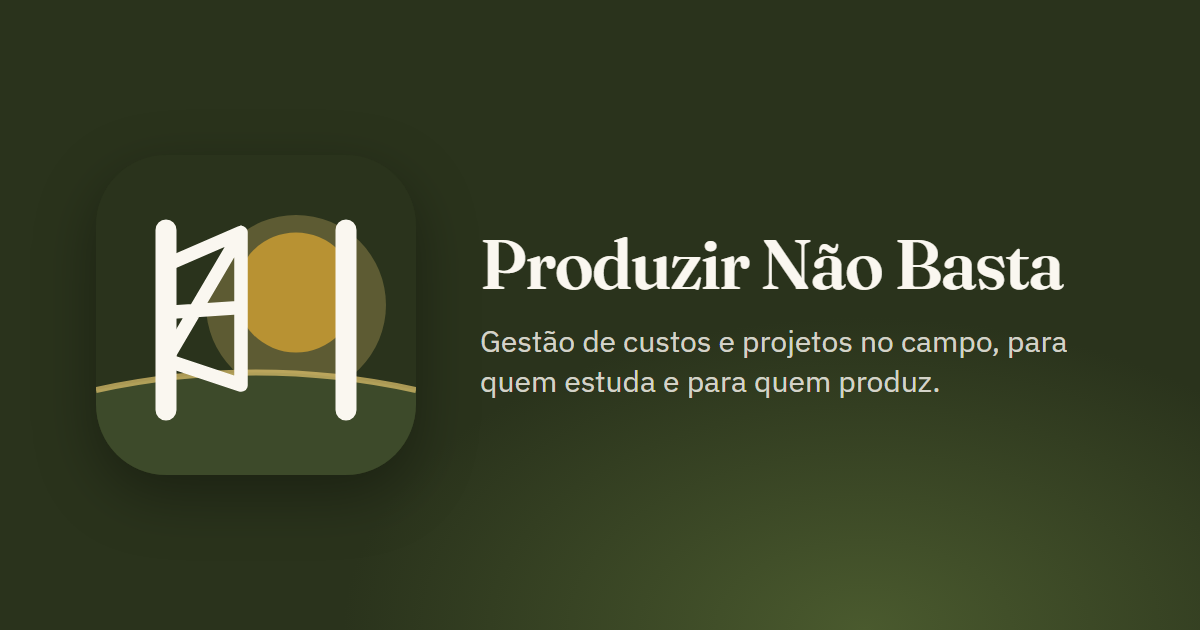
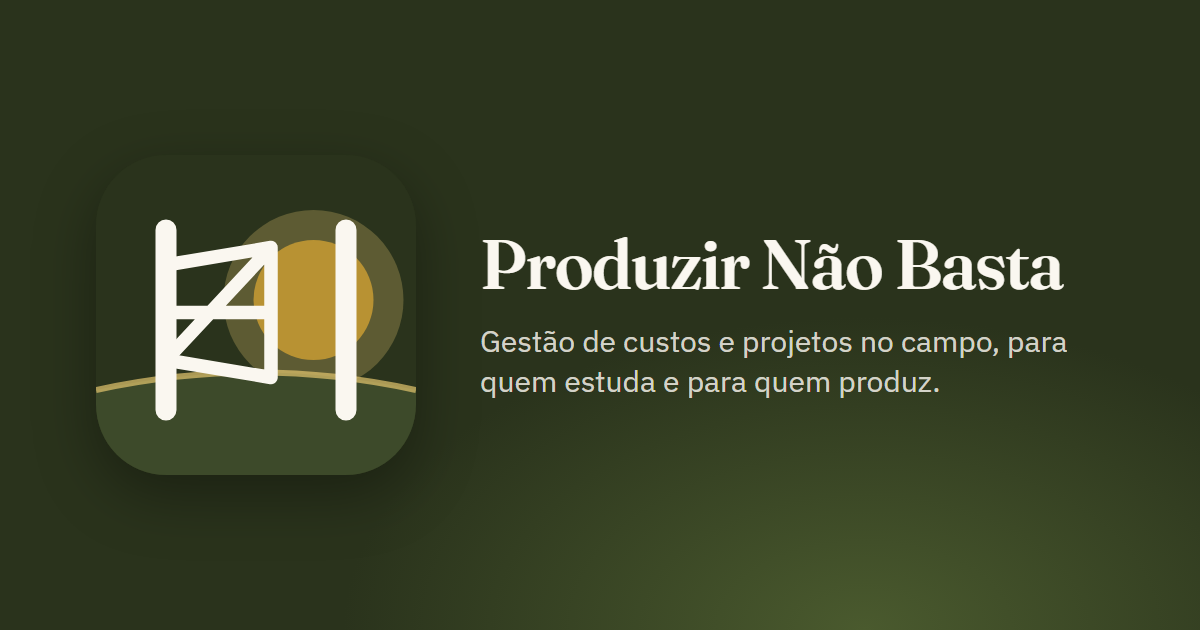
Marca: porteira entreaberta com o sol no vão (capa e prévia)

Changed region(s): [[0.1233, 0.3317, 0.3392, 0.6333], [0.2775, 0.573, 0.3083, 0.6032]]

diff --git a/index.html b/index.html
@@ -49,7 +49,7 @@ a{color:inherit}
 
 /* porteira */
 .porteira{width:min(52vw,220px);height:auto;display:block;border-radius:22%;box-shadow:0 18px 50px rgba(0,0,0,.35)}
-.porteira .sol{transform-box:view-box;transform-origin:40px 30px;transform:translateY(-2.5px)}
+.porteira .sol,.porteira .halo{transform-box:view-box;transform:translate(3.5px,-1px)}
 .porteira .halo{opacity:.28}
 
 h1{font-family:'Fraunces',Georgia,serif;font-weight:600;font-size:clamp(38px,8vw,64px);line-height:1.02;letter-spacing:-.02em;margin:30px 0 12px}
@@ -100,15 +100,15 @@ footer .ia{max-width:70ch;margin:12px auto 0;font-size:13px}
   html:not(.direto) .porta.prod{animation-delay:1.27s}
 }
 @keyframes chega{from{opacity:0;transform:scale(.94)}to{opacity:1;transform:none}}
-@keyframes nasce{from{transform:none}to{transform:translateY(-2.5px)}}
-@keyframes brilha{from{opacity:0}to{opacity:.28}}
+@keyframes nasce{from{transform:none}to{transform:translate(3.5px,-1px)}}
+@keyframes brilha{from{opacity:0;transform:none}to{opacity:.28;transform:translate(3.5px,-1px)}}
 @keyframes sobe{from{opacity:0;transform:translateY(12px)}to{opacity:1;transform:none}}
 </style>
 </head>
 <body>
 
 <main class="capa">
-  <svg class="porteira" viewBox="0 0 64 64" role="img" aria-label="Porteira aberta ao nascer do sol">
+  <svg class="porteira" viewBox="0 0 64 64" role="img" aria-label="Porteira se abrindo para o sol">
     <rect width="64" height="64" rx="12" fill="#2A331C"/>
     <circle class="halo" cx="40" cy="30" r="18" fill="#E3C46E"/>
     <circle class="sol" cx="40" cy="30" r="12" fill="#B89233"/>
@@ -116,10 +116,10 @@ footer .ia{max-width:70ch;margin:12px auto 0;font-size:13px}
     <path d="M0 47 Q32 40 64 47" fill="none" stroke="#E3C46E" stroke-width="1.2" opacity=".7"/>
     <g stroke="#FAF7F0" stroke-linecap="round" stroke-linejoin="round" fill="none">
       <!-- folha da porteira: aberta por padrão; fechada→aberta na primeira visita -->
-      <path id="folha" d="M14 22L29 15.5M14 31.5L29 30.5M14 41L29 46M14 41L29 15.5M29 15.5L29 46" stroke-width="2.7">
+      <path id="folha" d="M14 22L35 18.5M14 31.5L35 31.5M14 41L35 44.5M14 41L35 18.5M35 18.5L35 44.5" stroke-width="2.7">
         <animate id="abrir" attributeName="d" dur="1s" begin="indefinite" fill="freeze" calcMode="spline" keyTimes="0;1" keySplines=".45 .05 .25 1"
           from="M14 22L50 22M14 31.5L50 31.5M14 41L50 41M14 41L50 22M50 22L50 41"
-          to="M14 22L29 15.5M14 31.5L29 30.5M14 41L29 46M14 41L29 15.5M29 15.5L29 46"/>
+          to="M14 22L35 18.5M14 31.5L35 31.5M14 41L35 44.5M14 41L35 18.5M35 18.5L35 44.5"/>
       </path>
       <path d="M14 15V51M50 15V51" stroke-width="4.2"/>
     </g>
